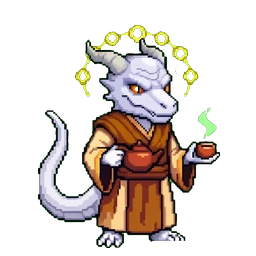
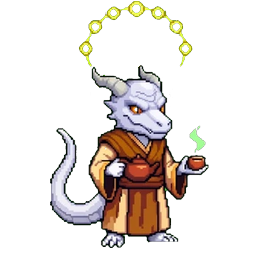
Cleric ID9 halka önizlemesi 2. tur: boynuzlu ırklarda halka boynuz uçlarının üstünde, elf kadında tam görünür; Tiefling kadın ID9 çıkarıldı (çizim erkek), Tiefling kadın Cleric kontak sayfası
Jetonlara yazılmadı (onay bekliyor). Dört jetonda figür küçüldü (0,82–0,92); onaylanırsa ten/pul maskeleri yeniden üretilmeli (NOT.md).

Claude-Session: https://claude.ai/code/session_01VVQfWy7Gxh4PHzxq6UKvoy

Changed region(s): [[0.125, 0.0, 0.875, 0.9688]]

diff --git a/scripts/cleric-id9-halka.py b/scripts/cleric-id9-halka.py
@@ -8,6 +8,9 @@ rapor.json. 9 ırk × 2 cinsiyet (Celestial hariç).
 2) Referans: human-erkek-cleric-ID9 halkası (aynı yöntemle ayrılan katman). Baş geometrisi: baş merkez sütununu kesen ilk geniş (≥ 10 px) koşu =
    baş tepesi (boynuz uçları yanlarda kaldığı için sayılmaz), baş genişliği = tepe + 14 satırdaki merkez koşu. Halka ölçek = hedef kafatası eni /
    referans kafatası eni (tepe + 6/10/14 satırlarının en darı; 0,85–1,10 arası sınırlı); konum referanstaki baş tepesine göre aynı oranla. Halka karakterin ARKASINDA (jeton halkanın üstüne bindirilir).
+2b) 2026-11-19 ek: Tiefling ve Dragonborn (BOYNUZLU) halka boynuz uçlarının üstüne alınır (boncuk ile kafatası dışındaki baş bölgesi gövdesi
+   kesişmez); elf kadın (TAM) boncukları tam görünür (halka figürün hiçbir pikseliyle kesişmez). Halka yukarı kaydırılır; tuvale sığmazsa figür ayak
+   hizası sabit kalarak 0,01 adımla en az gereken kadar küçültülür (en çok 0,80). Diğer ırklar değişmez. Tiefling kadın ID9 (çizim erkek) önizlemede yok.
 3) Dragonborn: pul maskesine dokunulmaz; silinen eski halka piksellerinin pul maskesiyle kesişimi raporlanır (beklenen 0)."""
 import json, os
 import numpy as np
@@ -81,6 +84,65 @@ def skull_width(body, ht, cx):
 
 OLCEK = (0.85, 1.10)   # ölçek sınırı: saç/kulak/boynuz eni yine şişirirse halka aşırı büyümesin
 
+BOYNUZLU = {'tiefling', 'dragonborn'}          # halka boynuz uçlarının üstüne: boncuklar boynuzla hiç kesişmez
+TAM = {'elf-kadin-cleric-ID9'}                 # boncuklar tam görünür: halka figürün hiçbir pikseliyle kesişmez
+HARIC = {'tiefling-kadin-cleric-ID9': 'çizim erkek karakter; kadın çizim Gemini ile yeniden üretilecek (kullanıcı, 2026-11-19)'}
+KUCULT = [round(1 - 0.01 * i, 2) for i in range(0, 21)]   # 1,00 … 0,80: üstten sığmazsa figür ayak hizası sabit kalarak en az gereken kadar küçültülür
+
+def shrink(clean, f):
+    if f == 1.0: return clean
+    al = clean[..., 3] > 0; ys, xs = np.where(al); foot, cxm = ys.max(), (xs.min() + xs.max()) / 2
+    im = Image.fromarray(clean, 'RGBA').convert('RGBa'); w = round(256 * f)
+    sm = im.resize((w, w), Image.LANCZOS).convert('RGBA')
+    can = Image.new('RGBA', (256, 256), (0, 0, 0, 0)); can.paste(sm, (round(cxm - cxm * f), round(foot - foot * f)), sm)
+    return np.array(can)
+
+def forbidden_of(clean, mode):
+    ht, cx, _, body = head(clean)
+    if mode == 'tam': return body
+    skull = np.zeros_like(body)                       # kafatası: baş tepesinden aşağı, merkez sütunu kesen koşu
+    for y in range(ht, min(256, ht + 60)):
+        row = body[y]; c = int(cx)
+        if not row[c]: continue
+        x0 = c
+        while x0 > 0 and row[x0 - 1]: x0 -= 1
+        x1 = c
+        while x1 < 255 and row[x1 + 1]: x1 += 1
+        skull[y, x0:x1 + 1] = True
+    zone = np.zeros_like(body); zone[:ht + 40] = True
+    return body & ~skull & zone                       # boynuz: baş bölgesinde kafatası dışındaki gövde
+
+def place(clean0, ring, rb, rht, rcx, rhw, mode):
+    best = None
+    for f in (KUCULT if mode != 'normal' else [1.0]):
+        clean = shrink(clean0, f)
+        ht, cx, _, body = head(clean); hw = skull_width(body, ht, cx)
+        sc_raw = hw / rhw; sc = float(np.clip(sc_raw, *OLCEK))
+        rw, rh = max(1, round(ring.shape[1] * sc)), max(1, round(ring.shape[0] * sc))
+        rimg = Image.fromarray(ring, 'RGBA').resize((rw, rh), Image.NEAREST); rmask = np.array(rimg)[..., 3] > 0
+        x0 = round(cx + ((rb[0] + rb[2]) / 2 - rcx) * sc - rw / 2); y_ideal = round(ht + (rb[1] - rht) * sc)
+        if mode == 'normal':
+            y0 = y_ideal; kayma = max(0, 1 - y0); y0 += kayma
+            info = {'figur_olcek': 1.0, 'bas_tepe': int(ht), 'bas_en': int(hw), 'olcek_ham': round(sc_raw, 3), 'olcek': round(sc, 3), 'asagi_kayma_px': int(kayma)}
+            return compose(clean, rimg, x0, y0), {**info, 'halka_kutu': [x0, y0, x0 + rw, y0 + rh]}
+        forb = forbidden_of(clean, mode)
+        for y0 in range(max(1, min(y_ideal, 256)), 0, -1):
+            can = np.zeros((256, 256), bool)
+            ys_, xs_ = np.where(rmask); yy, xx = ys_ + y0, xs_ + x0; ok = (yy >= 0) & (yy < 256) & (xx >= 0) & (xx < 256)
+            can[yy[ok], xx[ok]] = True
+            ov = int((can & forb).sum())
+            if best is None or ov < best[0]: best = (ov, f, y0, clean, rimg, x0, rw, rh, ht, hw, sc_raw, sc, y_ideal)
+            if ov == 0: break
+        if best[0] == 0: break
+    ov, f, y0, clean, rimg, x0, rw, rh, ht, hw, sc_raw, sc, y_ideal = best
+    info = {'figur_olcek': f, 'bas_tepe': int(ht), 'bas_en': int(hw), 'olcek_ham': round(sc_raw, 3), 'olcek': round(sc, 3),
+            'yukari_kayma_px': int(y_ideal - y0), 'kesisim_px': ov, 'halka_kutu': [x0, y0, x0 + rw, y0 + rh]}
+    return compose(clean, rimg, x0, y0), info
+
+def compose(clean, rimg, x0, y0):
+    can = Image.new('RGBA', (256, 256), (0, 0, 0, 0)); can.paste(rimg, (x0, y0), rimg)
+    can.alpha_composite(Image.fromarray(clean, 'RGBA')); return np.array(can)
+
 def main():
     os.makedirs(f'{OUT}/aday', exist_ok=True)
     ref = np.array(Image.open(f'{D}/human-erkek-cleric-ID9.webp').convert('RGBA'))
@@ -94,33 +156,35 @@ def main():
     for race in RACES:
         for g in ('erkek', 'kadin'):
             n = f'{race}-{g}-cleric-ID9'
+            if n in HARIC: rep['haric'] = {**rep.get('haric', {}), n: HARIC[n]}; continue
             a = np.array(Image.open(f'{D}/{n}.webp').convert('RGBA'))
             _, clean, m = split_ring(a)
-            ht, cx, _, body = head(clean); hw = skull_width(body, ht, cx)
-            sc_raw = hw / rhw; sc = float(np.clip(sc_raw, *OLCEK))
-            rw, rh = max(1, round(ring.shape[1] * sc)), max(1, round(ring.shape[0] * sc))
-            rimg = Image.fromarray(ring, 'RGBA').resize((rw, rh), Image.NEAREST)
-            x0 = round(cx + ((rb[0] + rb[2]) / 2 - rcx) * sc - rw / 2); y0 = round(ht + (rb[1] - rht) * sc)
-            kayma = max(0, 1 - y0); y0 += kayma   # tuvalin üstüne taşarsa halka aşağı kayar (başın arkasında kalır)
-            can = Image.new('RGBA', (256, 256), (0, 0, 0, 0)); can.paste(rimg, (x0, y0), rimg)
-            can.alpha_composite(Image.fromarray(clean, 'RGBA'))
-            out = np.array(can)
-            info = {'silinen_px': int(m.sum()), 'bas_tepe': int(ht), 'bas_en': int(hw), 'olcek_ham': round(sc_raw, 3), 'olcek': round(sc, 3), 'halka_kutu': [x0, y0, x0 + rw, y0 + rh],
-                    'asagi_kayma_px': int(kayma), 'kirpik': bool(y0 < 0 or x0 < 0 or x0 + rw > 256)}
-            pm = f'{D}/../characters/maske-pul/{n}.png'
+            mode = 'boynuz' if race in BOYNUZLU else ('tam' if n in TAM else 'normal')
+            out, info = place(clean, ring, rb, rht, rcx, rhw, mode)
+            info['silinen_px'] = int(m.sum()); info['kip'] = mode
+            pm = f'{D}/maske-pul/{n}.png'
             if race == 'dragonborn' and os.path.exists(pm):
                 mk = np.array(Image.open(pm).convert('L')) > 127; info['pul_maske_kesisim_px'] = int((mk & m).sum())
+                info['halka_pul_maske_kesisim_px'] = int((mk & (out[..., 3] > 0) & (np.abs(out.astype(int) - a.astype(int)).max(-1) > 0)).sum()) if info.get('figur_olcek', 1) == 1 else 'figür küçüldü'
             rep['jetonlar'][n] = info
             Image.fromarray(out, 'RGBA').save(f'{OUT}/aday/{n}.png')
             pairs.append((n, a, out))
+    for n in HARIC:
+        if os.path.exists(f'{OUT}/aday/{n}.png'): os.remove(f'{OUT}/aday/{n}.png')
     S = 3 * 256; cols = 3
-    im = Image.new('RGB', (cols * (2 * S + 24), 6 * (S + 30)), (52, 54, 60)); d = ImageDraw.Draw(im)
+    im = Image.new('RGB', (cols * (2 * S + 24), ((len(pairs) + cols - 1) // cols) * (S + 30)), (52, 54, 60)); d = ImageDraw.Draw(im)
     for i, (n, a, b) in enumerate(pairs):
         x, y = (i % cols) * (2 * S + 24), (i // cols) * (S + 30)
         for j, t in enumerate((a, b)):
             p = Image.fromarray(t, 'RGBA').resize((S, S), Image.NEAREST); im.paste(p, (x + j * S, y + 26), p)
         d.text((x + 4, y + 6), f'{n}   once | sonra', fill=(255, 255, 255))
     im.save(f'{OUT}/once-sonra-3x.png')
+    for n, a, b in pairs:                              # boynuzlu ırklar ve elf kadın: 4× yakın (baş bölgesi)
+        if not (n.split('-')[0] in BOYNUZLU or n in TAM): continue
+        c = Image.new('RGBA', (2 * 640 + 24, 520 + 26), (52, 54, 60, 255)); d2 = ImageDraw.Draw(c)
+        for j, t in enumerate((a, b)):
+            c.alpha_composite(Image.fromarray(t, 'RGBA').crop((48, 0, 208, 130)).resize((640, 520), Image.NEAREST), (j * 664, 26))
+        d2.text((6, 6), f'{n}   once | sonra (4x, bas bolgesi)', fill=(255, 255, 255)); c.convert('RGB').save(f'{OUT}/yakin-4x-{n}.png')
     json.dump(rep, open(f'{OUT}/rapor.json', 'w'), ensure_ascii=False, indent=1)
     print(json.dumps(rep['referans'])); [print(k, v) for k, v in rep['jetonlar'].items()]
 

diff --git a/docs/sabah/cleric-id9-halka/NOT.md b/docs/sabah/cleric-id9-halka/NOT.md
@@ -1,0 +1,29 @@
+# Cleric ID9 halka önizlemesi: 2. tur (2026-11-19; jetonlara yazılmadı, onay bekliyor)
+
+- `once-sonra-3x.png`: 17 jeton (Tiefling kadın ID9 hariç). 4× yakın: `yakin-4x-<jeton>.png` (Tiefling erkek, Dragonborn erkek/kadın, elf kadın).
+- Boynuzlu ırklar ve elf kadın: halka boynuz/saçla kesişmesin diye yukarı alındı; tuvale sığmadığı için figür küçüldü (ayak hizası sabit):
+  Tiefling erkek 0,82, elf kadın 0,86, Dragonborn erkek 0,87, Dragonborn kadın 0,92. Küçültmeden en iyi yerleşimde bile kesişim kalıyordu
+  (elf kadın 1096 px, Tiefling erkek 203, Dragonborn erkek 53, kadın 24). Diğer 13 jeton bir önceki önizlemeyle piksel piksel aynı.
+- **Onaylanırsa ek iş:** küçülen 4 jetonun maskeleri figürle hizalı kalmaz; ten maskesi (`npm run soy-maske -- --alt`) ve Dragonborn pul maskesi
+  (`python scripts/dragonborn-pul-maske.py`; bu iki jetonun `dragonborn-pul-duzeltme.json` kaydı yok) yeniden üretilmeli. Halka maskeye girmez
+  (sarı-yeşil, ten/pul tonu değil). Küçültme istenmezse alternatif: bu 4 jetonda halkayı kesişimi kabul ederek bırakmak.
+
+## Tiefling kadın Cleric jetonları (`tiefling-kadin-cleric-kontak.png`)
+
+| Jeton | Çizim | Not |
+|---|---|---|
+| tiefling-female-cleric (genel) | kadın | zırh, kalkan, gürz |
+| ID1 Yaşam | kadın | kanatlı beyaz cüppe |
+| ID2 Aydın | kadın | güneş |
+| ID3 Barış (bağlı değil) | kadın | güvercinli açık mavi cüppe |
+| ID4 Demirci | kadın | çekiç |
+| ID5 Fırtına | kadın | zırh, şimşek |
+| ID6 Mezar | kadın | kafatası maskesi |
+| ID7 Savaş | kadın | zırh, kalkan |
+| ID8 Yakamoz | kadın | fener |
+| ID9 Birlik Manastırı | **erkek** (yaşlı, kel, gözlüklü) | çay seti; yanlış cinsiyet |
+| GR Gariban | kadın | kahverengi kaba cüppe, sopa |
+
+**Uygun kadın Birlik Manastırı çizimi yok:** hiçbir kadın jetonda çay seti yok. Temaya en yakınlar: ID3 (barışçıl manastır cüppesi, güvercin; ama
+çaydanlık/fincan yok, Barış Alanı çizimi) ve GR (kahverengi keşiş cüppesi; sopa taşıyor). İkisi de çay setini taşımıyor; Gemini'den yeniden üretim
+gerekli. Jeton kopyalanmadı, uydurulmadı.
